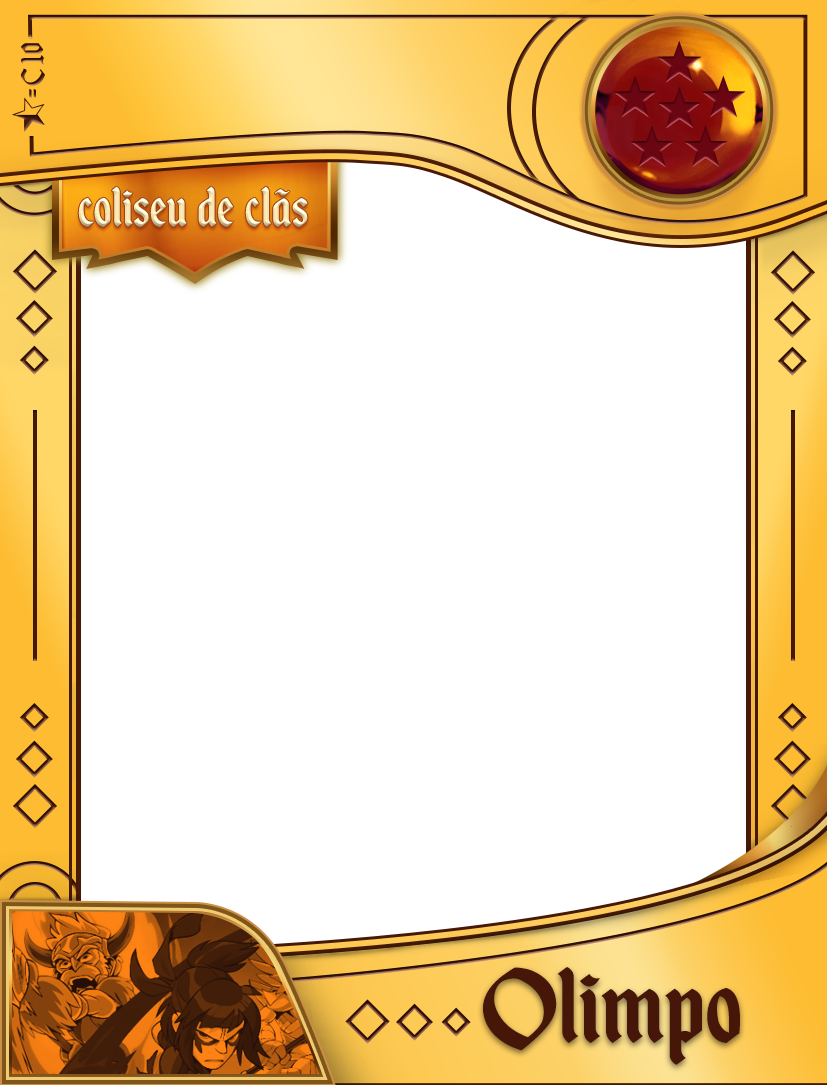
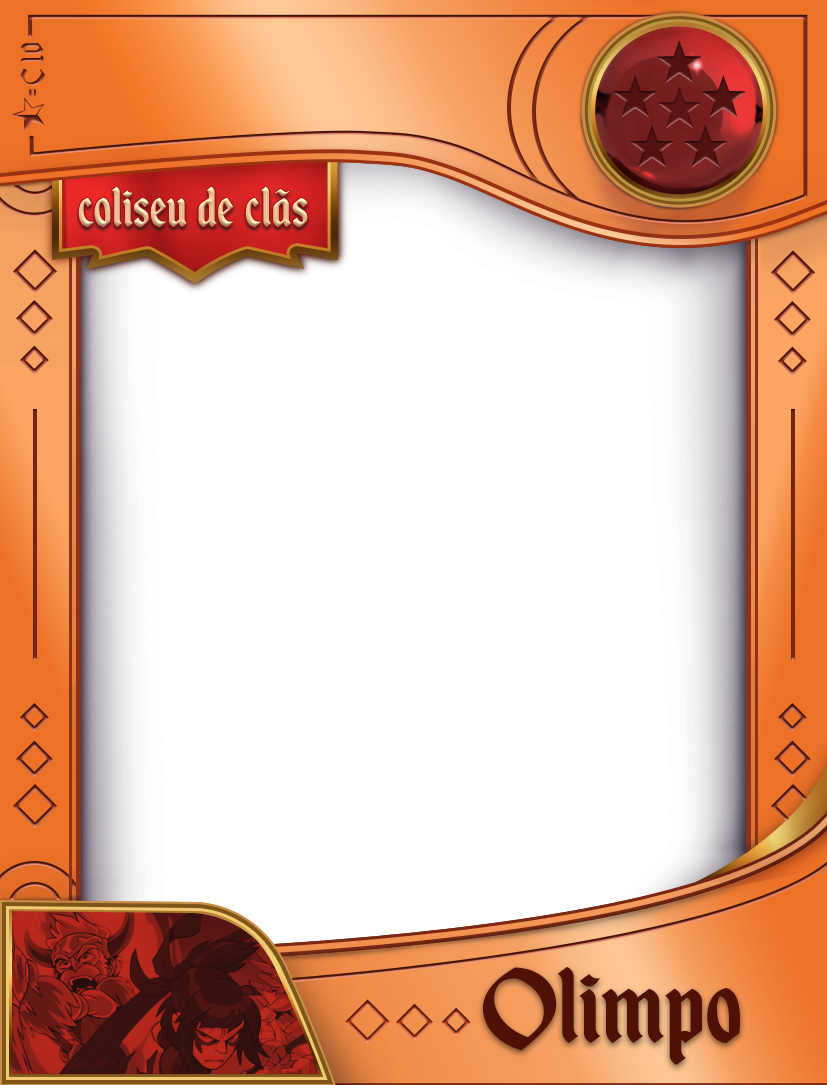
Atualizado cores dos clãs olimpo e ranked beasts, remoção da strawberry tea

diff --git a/index.html b/index.html
@@ -215,13 +215,11 @@
         
                     <option degrade="imagens/degrade/degrade-pink.png" color-data="pink" data-value="imagens/fundos/fundo-pink.png" value="imagens/molduras/patota.png">Patota da Moneymatch</option>
         
-                    <option degrade="imagens/degrade/degrade-orange.png" color-data="orange" data-value="imagens/fundos/fundo-orange.png" value="imagens/molduras/ranked.png">Ranked Beasts</option>
-        
-                    <option degrade="imagens/degrade/degrade-purple.png" color-data="purple" data-value="imagens/fundos/fundo-purple.png" value="imagens/molduras/strawberry.png">Strawberry Tea</option>
+                    <option degrade="imagens/degrade/degrade-purple.png" color-data="purple" data-value="imagens/fundos/fundo-purple.png" value="imagens/molduras/ranked.png">Ranked Beasts</option>
         
                     <option degrade="imagens/degrade/degrade-black.png" color-data="black" data-value="imagens/fundos/fundo-black.png" value="imagens/molduras/vasco.png">Vasco</option>
 
-                    <option degrade="imagens/degrade/degrade-yellow2.png" color-data="yellow2" data-value="imagens/fundos/fundo-yellow2.png" value="imagens/molduras/olimpo.png">Olimpo</option>
+                    <option degrade="imagens/degrade/degrade-orange.png" color-data="orange" data-value="imagens/fundos/fundo-orange.png" value="imagens/molduras/olimpo.png">Olimpo</option>
 
                     <option degrade="imagens/degrade/degrade-brown.png" color-data="brown" data-value="imagens/fundos/fundo-brown.png" value="imagens/molduras/blackwater.png">Blackwater WWC</option>
                 </select>
